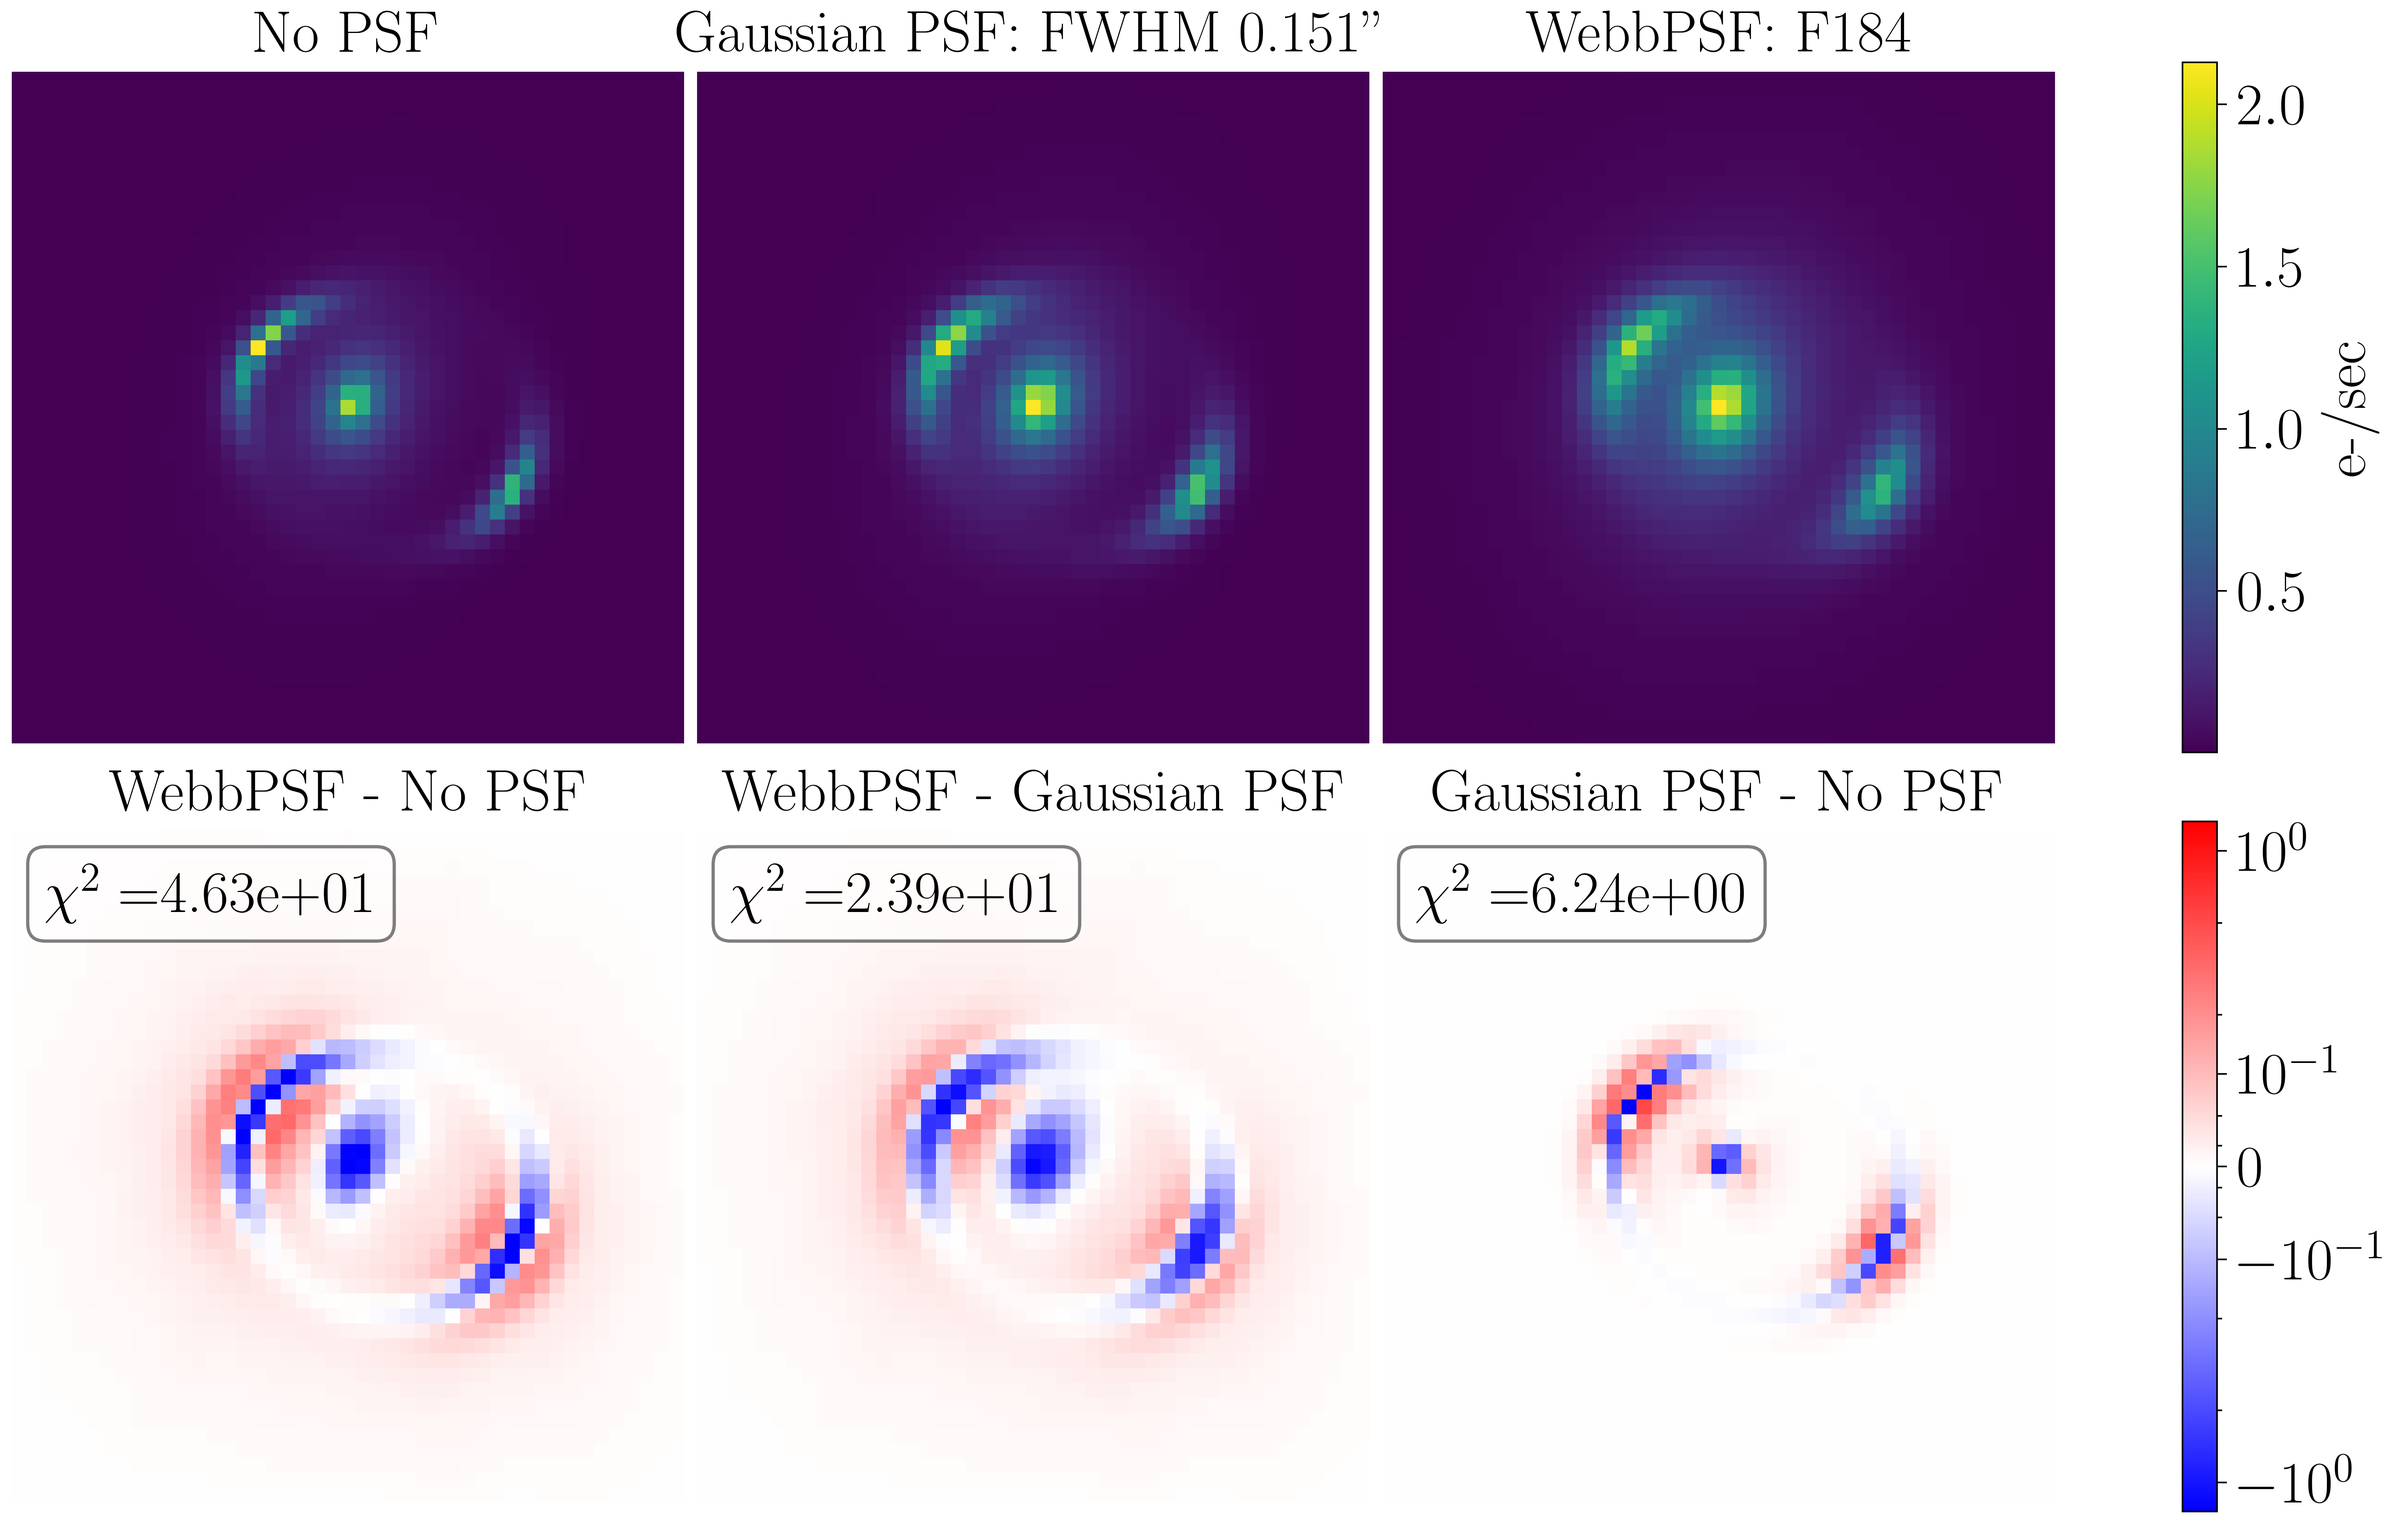
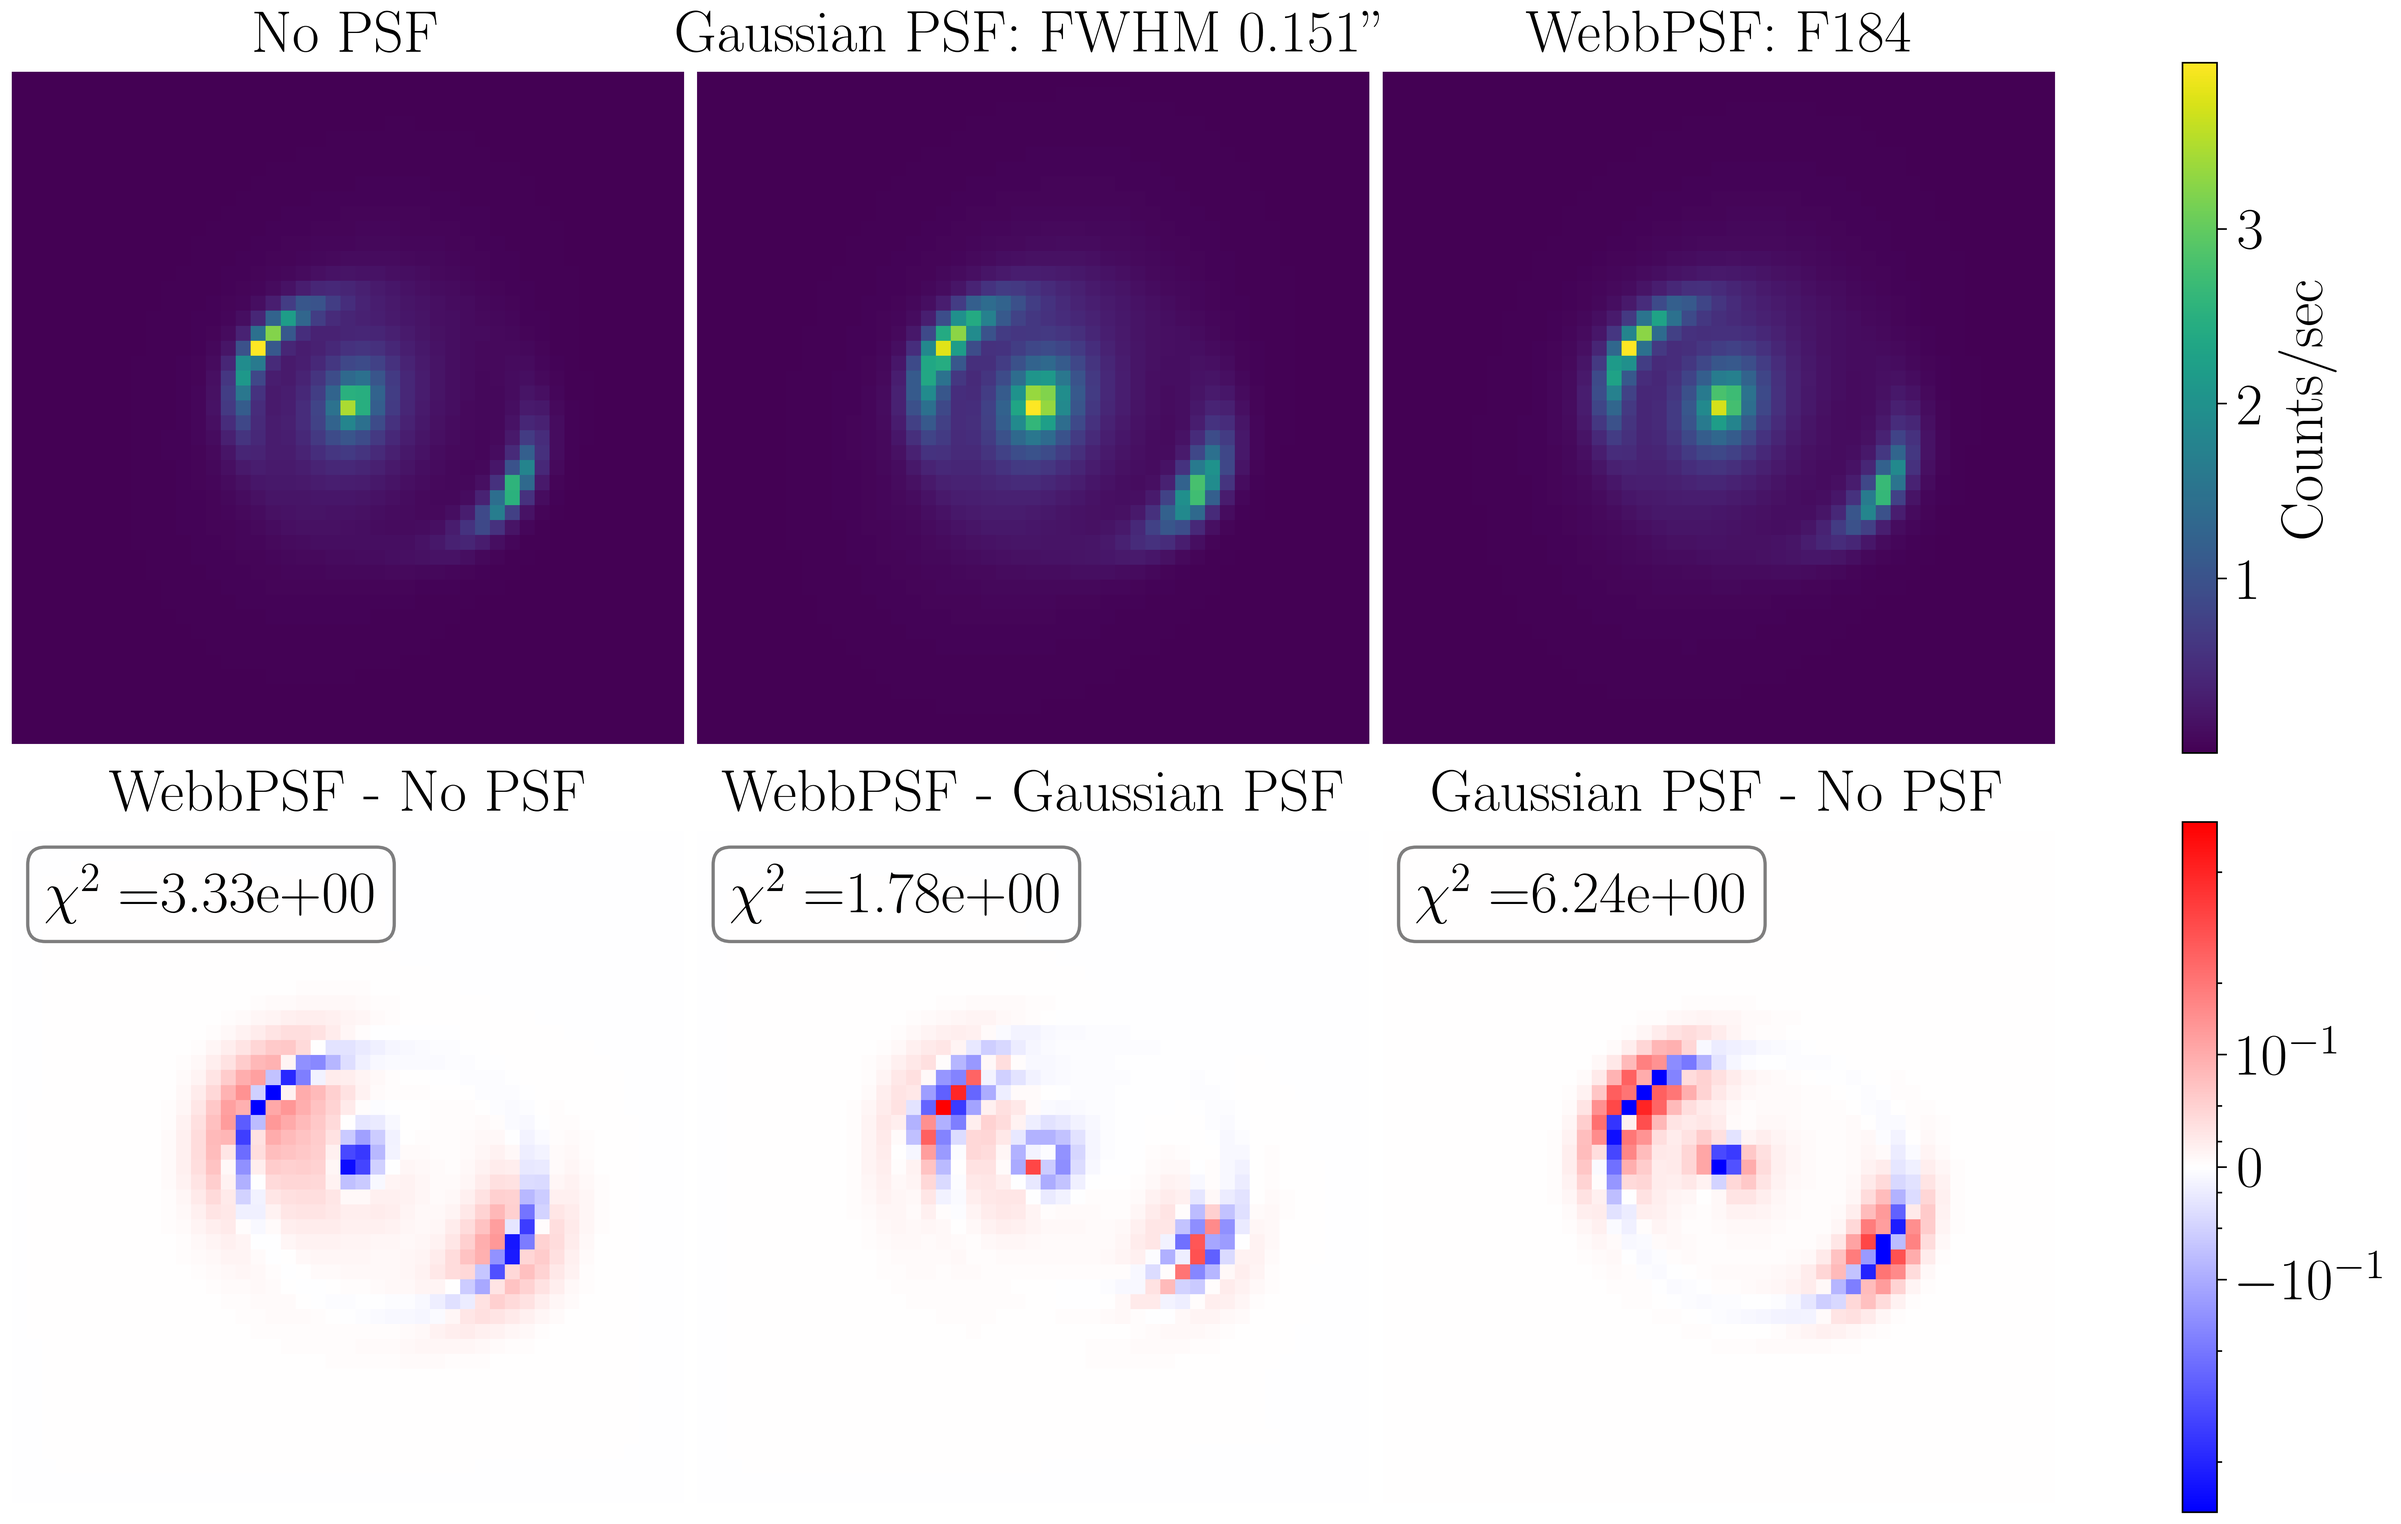
fix scenes script fig for aas

diff --git a/paper/figures/scenes_across_detectors.py b/paper/figures/scenes_across_detectors.py
@@ -70,6 +70,7 @@ plt.savefig(os.path.join(array_dir, 'noise_and_convolved_bkg.png'))
 plt.close()
 
 wfi = roman.WFI()
+wfi.filter = 'F184'
 calc_psf = wfi.calc_psf(oversample=supersample_factor)
 pandeia_kernel = psf.get_kernel_from_calc_psf(calc_psf)
 f, ax = plt.subplots()
@@ -86,7 +87,7 @@ plt.close()
 # get kernels
 wfi_01 = roman.WFI()
 wfi_01.filter = 'F184'
-wfi_01.detector = 'SCA01'
+wfi_01.detector = 'SCA11'
 wfi_01.detector_position = (2048, 2048)
 calc_psf_01 = wfi_01.calc_psf(oversample=supersample_factor)
 kernel_sca01 = psf.get_kernel_from_calc_psf(calc_psf_01)
@@ -123,7 +124,7 @@ psfs = [kernel_sca01, kernel_sca05, kernel_sca09, kernel_sca15, kernel_sca16]
 
 for i, im in enumerate(psfs):
     f, ax = plt.subplots()
-    ax.imshow(np.log10(i))
+    ax.imshow(np.log10(im))
     plt.savefig(os.path.join(array_dir, f'psf_{i}.png'))
     plt.close()
 
@@ -133,16 +134,24 @@ image_09 = convolution.convolve(deconvolved, kernel_sca09)
 image_15 = convolution.convolve(deconvolved, kernel_sca15)
 image_16 = convolution.convolve(deconvolved, kernel_sca16)
 
-# image_01 += noise_and_convolved_bkg
-# image_05 += noise_and_convolved_bkg
-# image_09 += noise_and_convolved_bkg
-# image_15 += noise_and_convolved_bkg
-# image_16 += noise_and_convolved_bkg
+image_01 += noise_and_convolved_bkg
+image_05 += noise_and_convolved_bkg
+image_09 += noise_and_convolved_bkg
+image_15 += noise_and_convolved_bkg
+image_16 += noise_and_convolved_bkg
 
 residual_05 = image_01 - image_05
 residual_09 = image_01 - image_09
 residual_15 = image_01 - image_15
 residual_16 = image_01 - image_16
+
+residual_list = [residual_05, residual_09, residual_15, residual_16]
+
+f, ax = plt.subplots(1, 4)
+for i, im in enumerate(residual_list):
+    ax[i].imshow(im)
+plt.savefig(os.path.join(array_dir, 'residuals.png'))
+plt.close()
 
 f, ax = plt.subplots(figsize=(14, 10))
 
@@ -150,9 +159,9 @@ fov = np.asarray(Image.open('../graphics/roman_fov.png'))
 ax.imshow(fov, origin='upper')
 ax.set_axis_off()
 
-vmin, vmax = -0.03, 0.03
+vmin, vmax = -0.05, 0.05
 
-circ_01_coords = (800, 390)
+circ_01_coords = (1020, 620)
 circ_01 = patches.Circle(circ_01_coords, radius=20, color='black')
 point_01 = ax.add_patch(circ_01)
 ax_01 = f.add_axes([0.375,0.65,0.2,0.2], anchor='NE', zorder=1)
